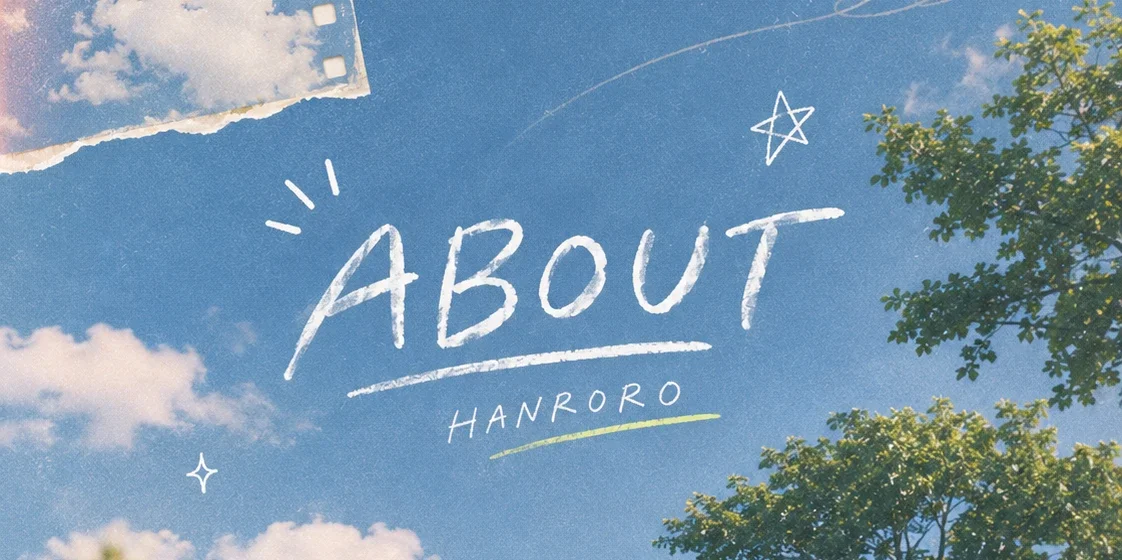
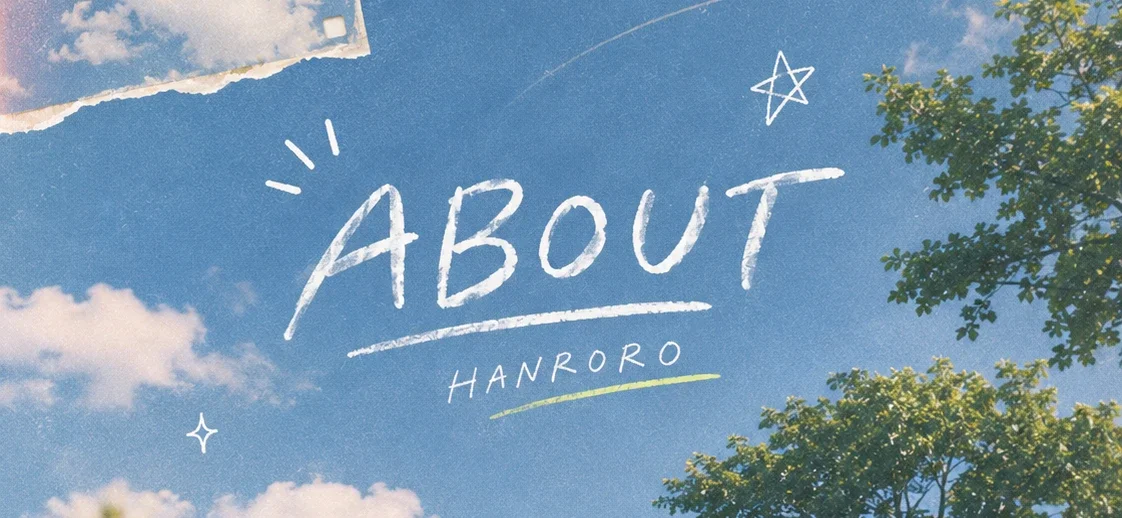
fix: 프로필 배너 이미지를 칸 비율(PC 4:1, 모바일 약 2.2:1)에 맞게 잘라 어떤 화면에서도 잘리지 않게 수정

diff --git a/src/app/profile/page.tsx b/src/app/profile/page.tsx
@@ -58,7 +58,7 @@ export default function ProfilePage() {
             src="/banners/about-pc.webp"
             alt="ABOUT HANRORO - 하늘과 나무, 필름 사진을 붙인 콜라주 배너"
             width={2000}
-            height={667}
+            height={500}
             fetchPriority="high"
           />
         </picture>
@@ -177,15 +177,13 @@ const Wrapper = styled.div`
 const HeroBanner = styled.div`
   position: relative;
   width: 100%;
-  aspect-ratio: 3 / 1;
-  max-height: 320px;
+  /* 칸 비율을 이미지 비율과 똑같이 맞춰서 어떤 화면 폭에서도 잘리지 않게 한다 */
+  aspect-ratio: 4 / 1; /* about-pc.webp 2000×500 */
   overflow: hidden;
   background: #9fbfe0;
 
   @media (max-width: 767px) {
-    aspect-ratio: auto;
-    height: 180px;
-    max-height: none;
+    aspect-ratio: 1122 / 518; /* about-mobile.webp */
   }
 `;
 
